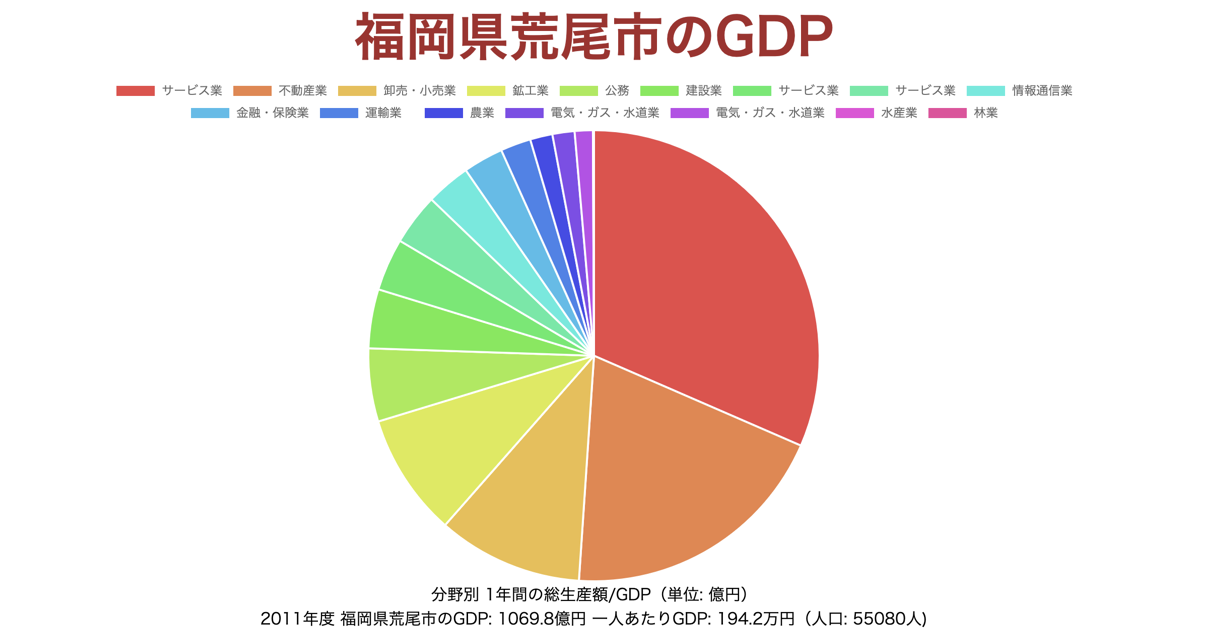
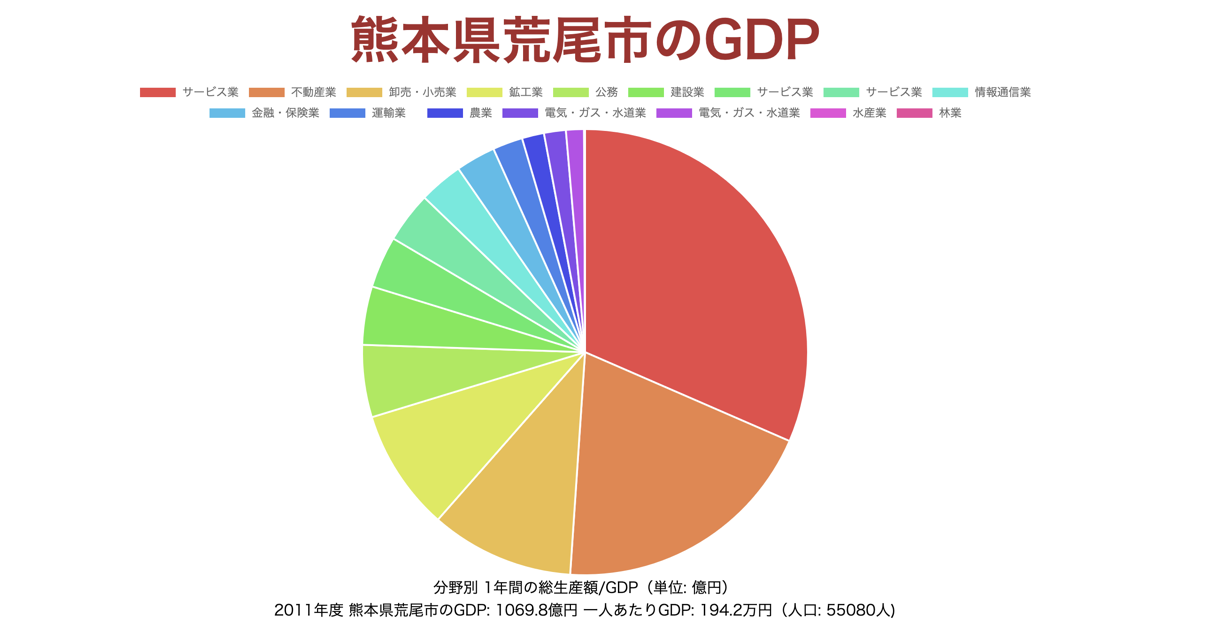
fix arao

diff --git a/gdp.html b/gdp.html
@@ -2,7 +2,7 @@
 <!DOCTYPE html><html lang="ja"><head><meta charset="utf-8"/>
 <meta name="viewport" content="width=device-width"/>
 	
-<title>福岡県荒尾市のGDP</title>
+<title>熊本県荒尾市のGDP</title>
 
 <link rel="apple-touch-icon" href="https://fukuno.jig.jp/app/fukuoka/gdp.png">
 <meta property="og:image" content="https://fukuno.jig.jp/app/fukuoka/gdp.png">
@@ -11,10 +11,10 @@
 import { CSV } from "https://code4sabae.github.io/js/CSV.js";
 import Chart from "https://code4sabae.github.io/kafumon/lib/Chart.mjs";
 
-const pref = "福岡県";
+const pref = "熊本県";
 const city = "荒尾市";
 const year = 2011;
-const csvurl = "./arao_fukuoka.csv";
+const csvurl = "./arao_kumamoto.csv";
 
 const roundYenK = (n) => {
 	console.log(n);
@@ -79,7 +79,7 @@ a {
 
 </style></head><body>
 
-<h1>福岡県荒尾市のGDP</h1>
+<h1>熊本県荒尾市のGDP</h1>
 <canvas id="canvas"></canvas>
 <div>分野別 1年間の総生産額/GDP（単位: 億円）</div>
 <div id="caption"></div>
